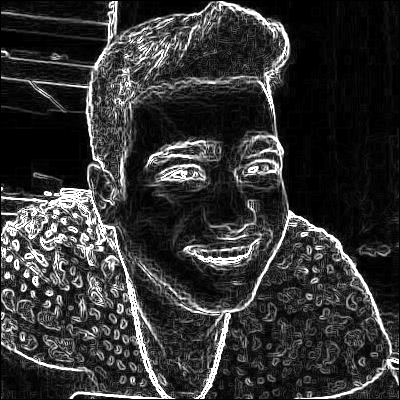
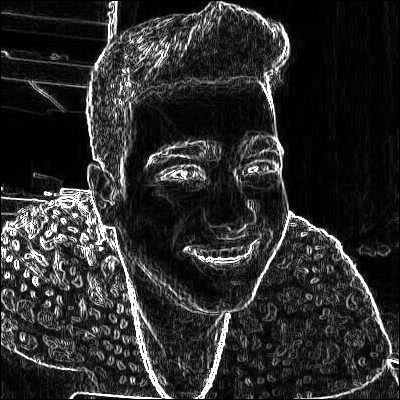
✨  ic file edited

diff --git a/sobel.py b/sobel.py
@@ -7,7 +7,7 @@ input_pixels = input_image.load()
 # renk yogunlugu bul
 intensity = [[sum(input_pixels[x, y]) / 3 for y in range(input_image.height)] for x in range(input_image.width)]
 
-kernelx = [[1, 0, -1],
+kernelx = [[-1, 0, 1],
            [2, 0, -2],
            [1, 0, -1]]
 kernely = [[1, 2, 1],
